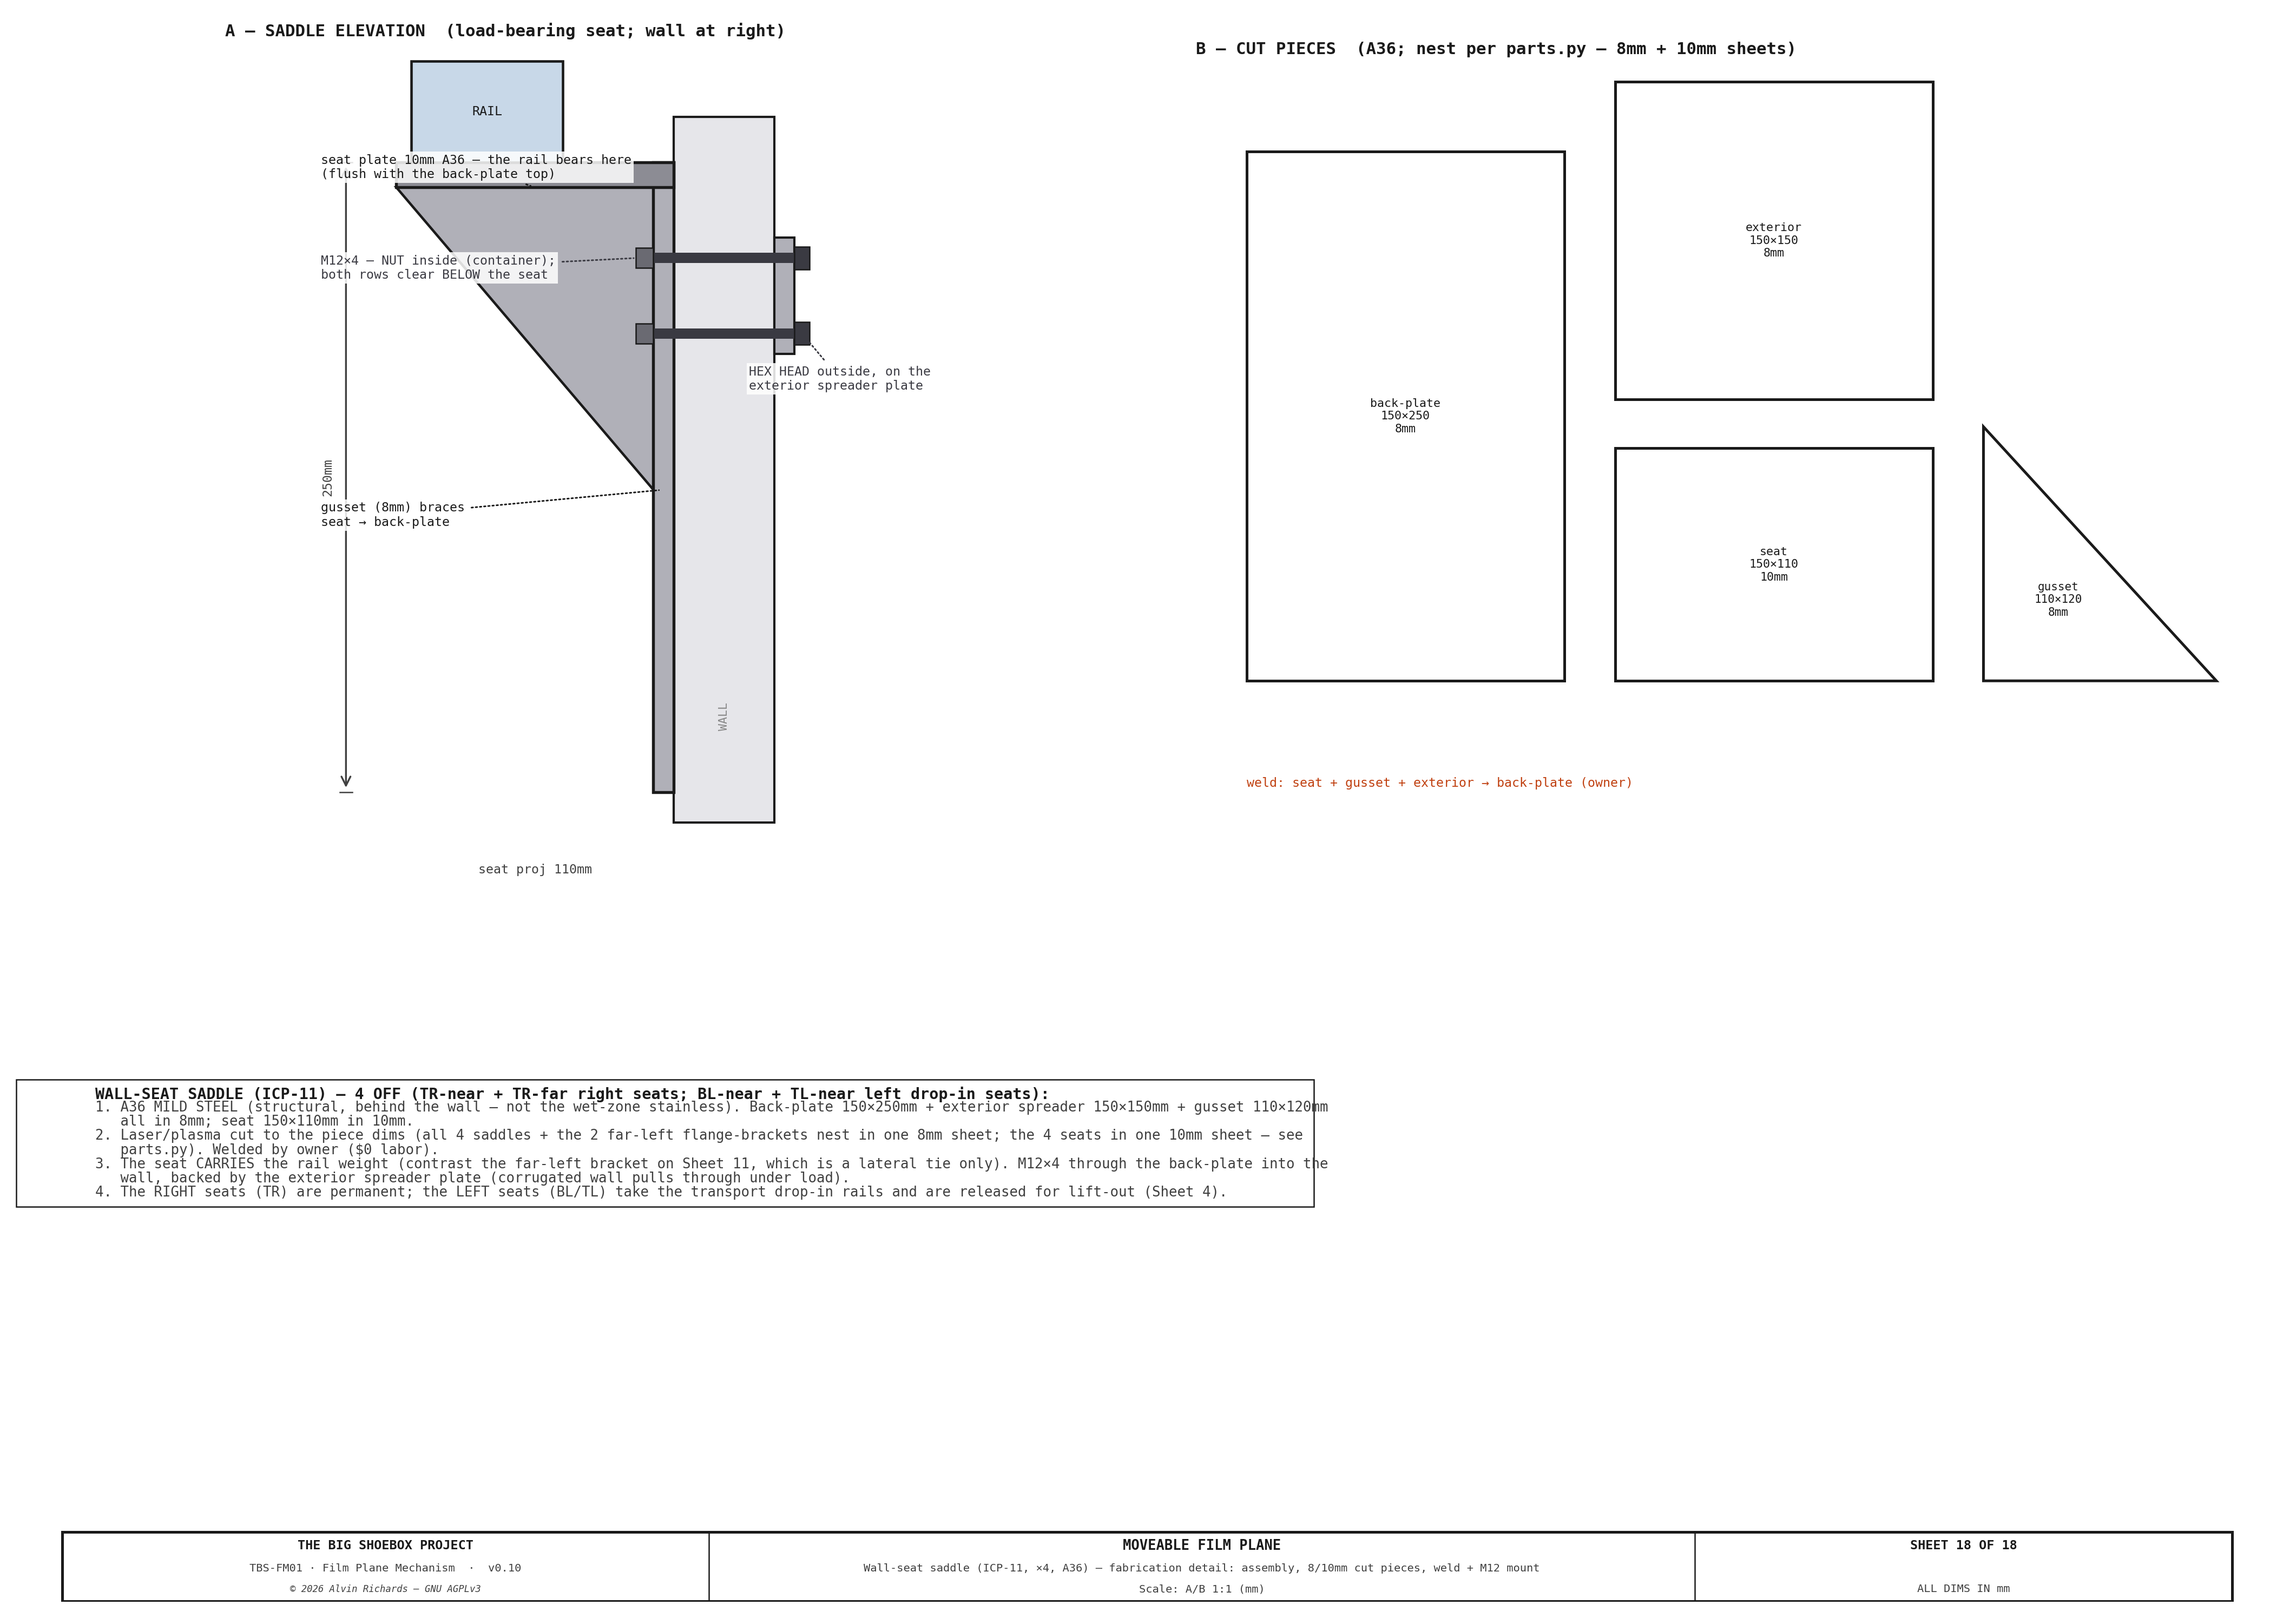
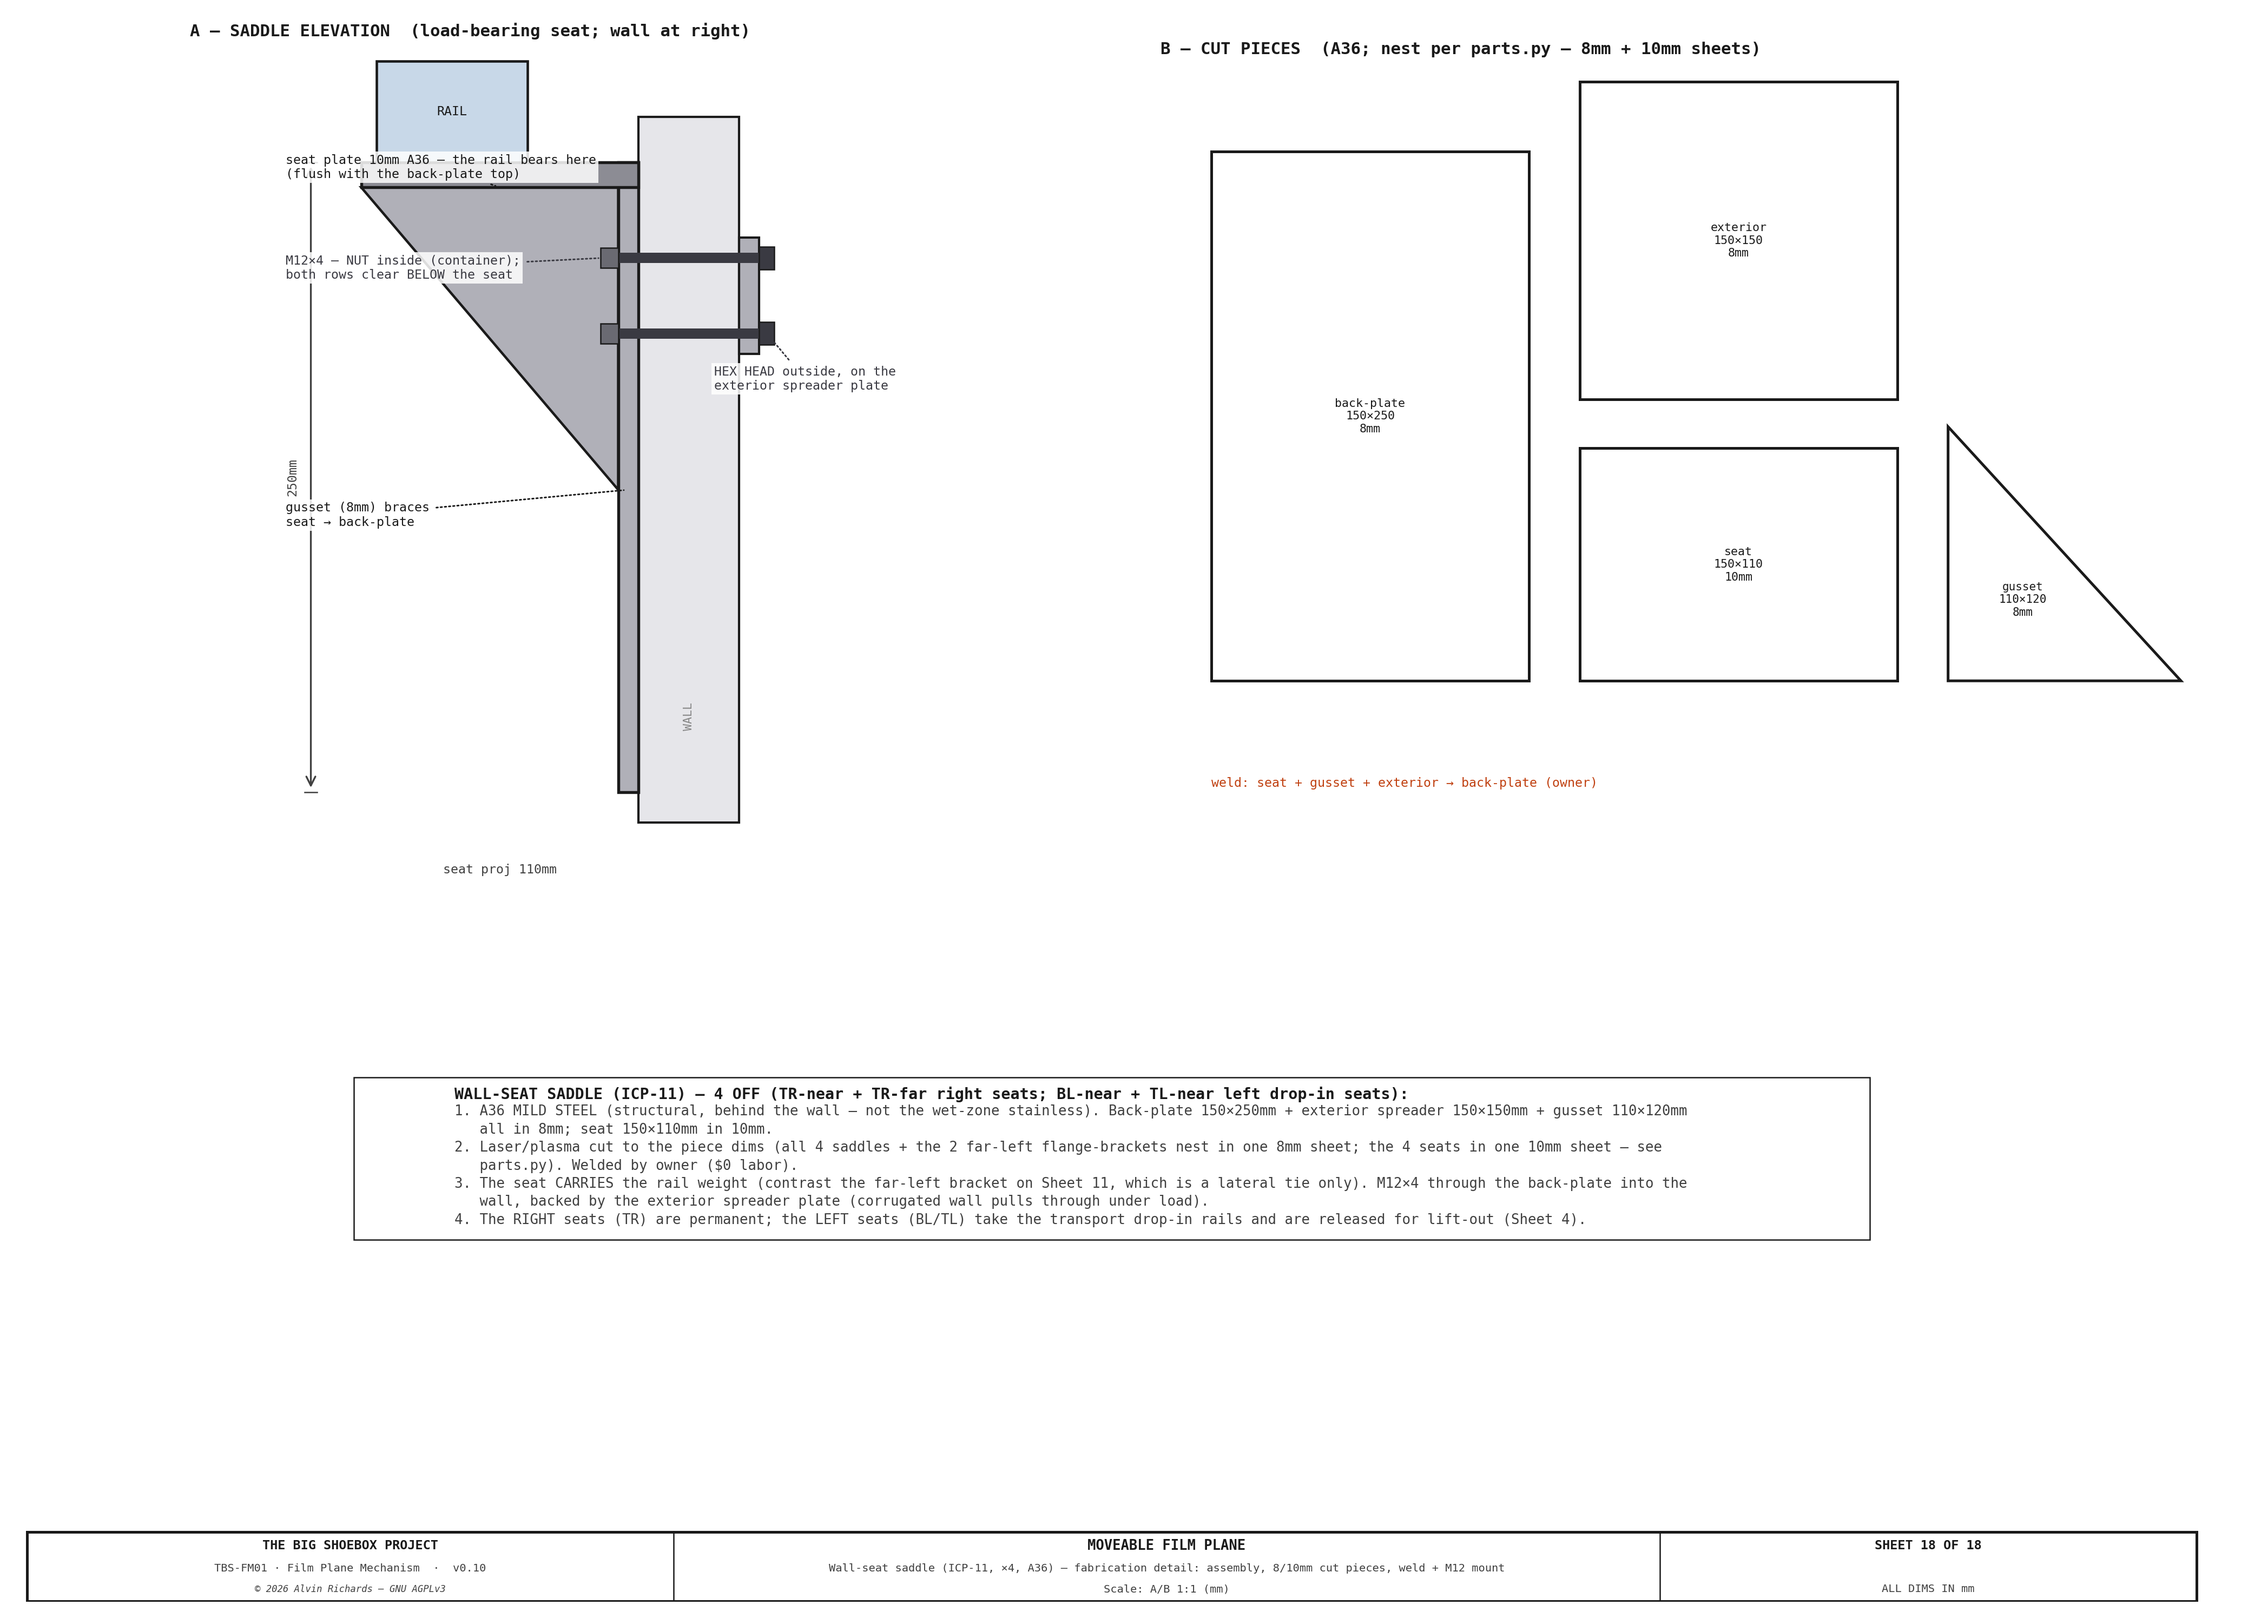
Tidy labels

diff --git a/src/generators/generate_film_plane_mechanism.py b/src/generators/generate_film_plane_mechanism.py
@@ -2340,7 +2340,7 @@ def sheet18():
         f"M{FP_CORNER_SEAT_BOLT_D}×{FP_CORNER_SEAT_BOLT_N} through the back-plate into the wall, backed by the exterior spreader plate (corrugated wall pulls through under load).",
         "4. The RIGHT seats (TR) are permanent; the LEFT seats (BL/TL) take the transport drop-in rails and are released "
         "for lift-out (Sheet 4).",
-    ], 2, 98, 3.6, fs=6.2, title_fs=6.8, color=DIM, width=52, wrap=150, font=FONT)
+    ], 20, 98, 4.6, fs=6.2, title_fs=6.8, color=DIM, width=60, wrap=150, font=FONT)
 
     ax_tb = fig.add_axes([0.06, 0.012, 0.90, 0.052]); ax_tb.set_xlim(0, 1); ax_tb.set_ylim(0, 1); ax_tb.axis("off")
     title_block(ax_tb, "SHEET 18 OF 18", drawing_title="MOVEABLE FILM PLANE",
